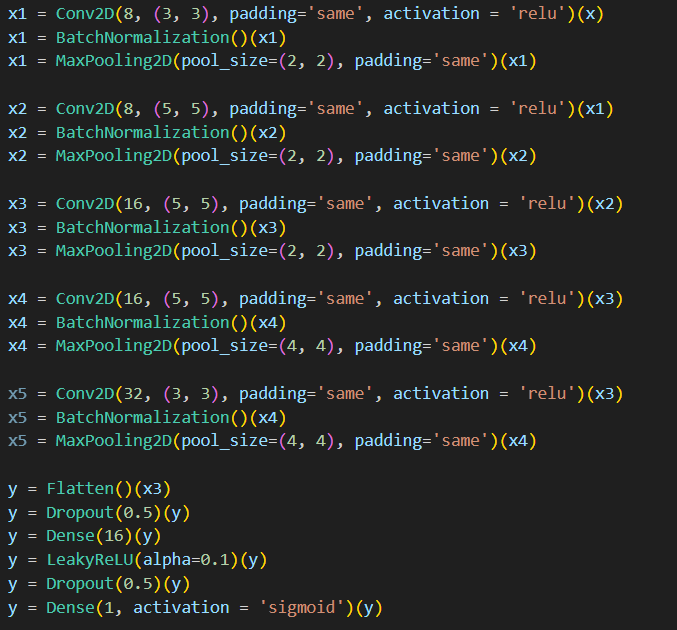
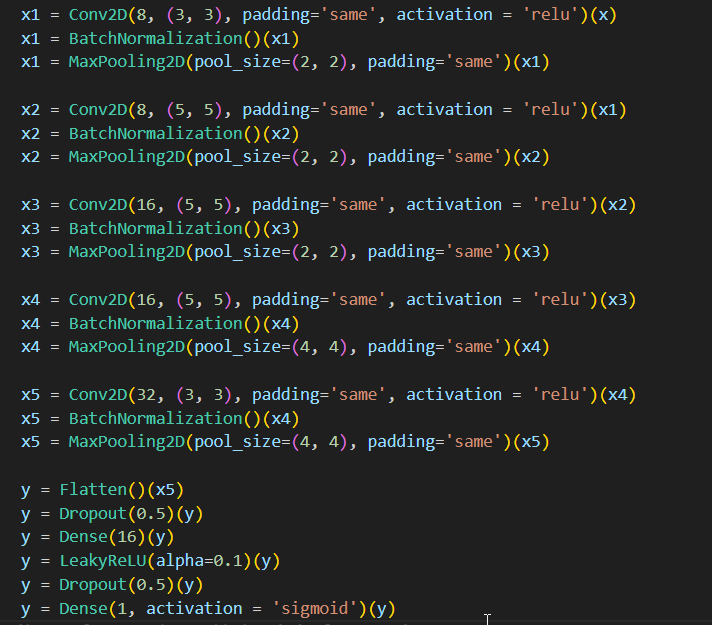
changes

diff --git a/original.py b/original.py
@@ -99,11 +99,11 @@ class Meso4(Classifier):
         x4 = BatchNormalization()(x4)
         x4 = MaxPooling2D(pool_size=(4, 4), padding='same')(x4)
 
-        x5 = Conv2D(32, (3, 3), padding='same', activation = 'relu')(x3)
+        x5 = Conv2D(32, (3, 3), padding='same', activation = 'relu')(x4)
         x5 = BatchNormalization()(x4)
-        x5 = MaxPooling2D(pool_size=(4, 4), padding='same')(x4)
+        x5 = MaxPooling2D(pool_size=(4, 4), padding='same')(x5)
         
-        y = Flatten()(x3)
+        y = Flatten()(x5)
         y = Dropout(0.5)(y)
         y = Dense(16)(y)
         y = LeakyReLU(alpha=0.1)(y)
@@ -210,7 +210,7 @@ def plotter(images,preds):
     return
 
 # Save the trained model using the HDF5 format
-meso.model.save('./aplicatie/configurations/mesonet.h5', save_format='h5')
+meso.model.save('./configurations/mesonet.h5', save_format='h5')
 
 # Optionally, save using the TensorFlow SavedModel format
 # meso.model.save('mesonet', save_format='tf')
